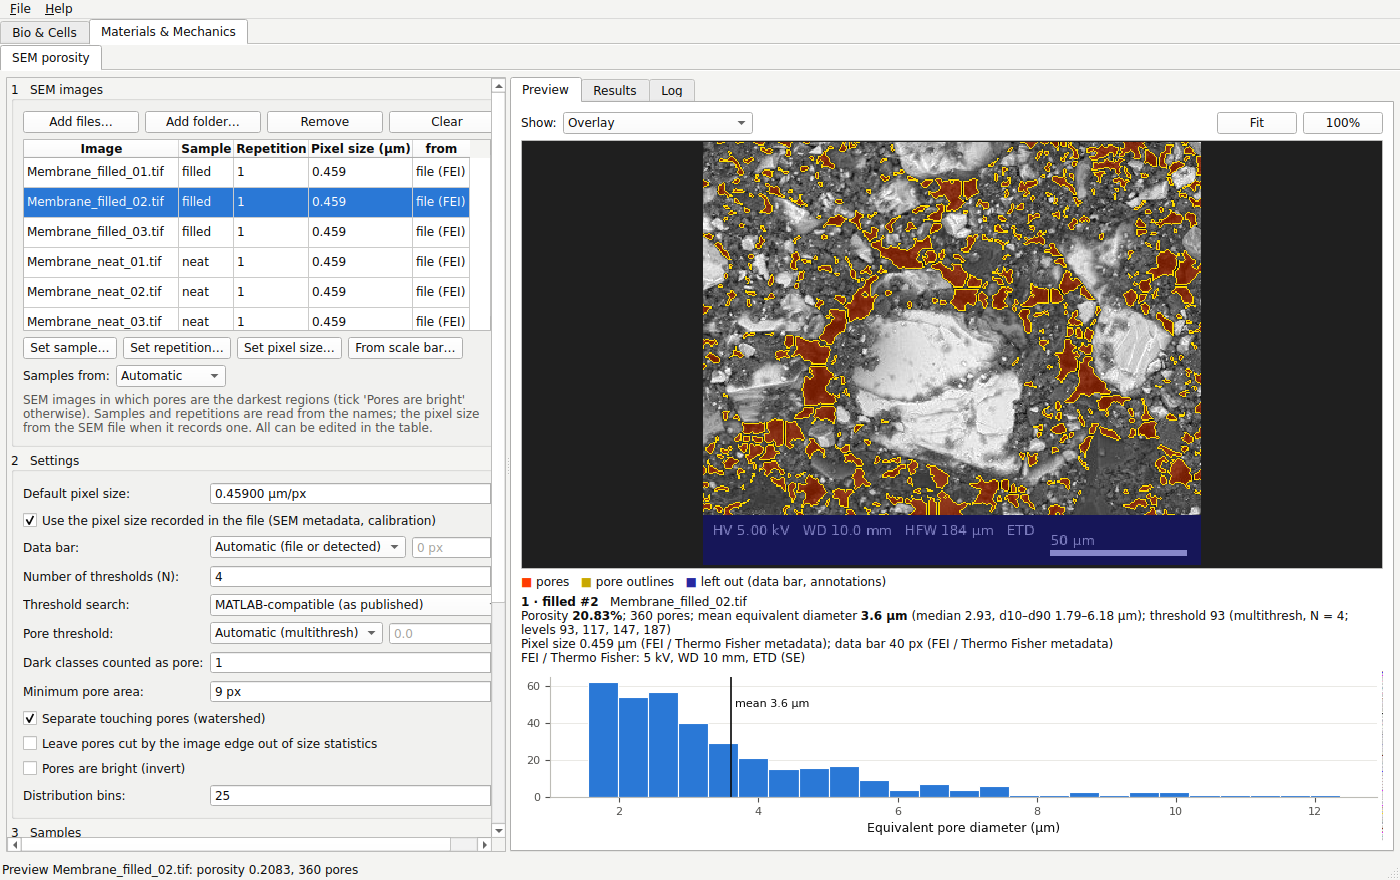
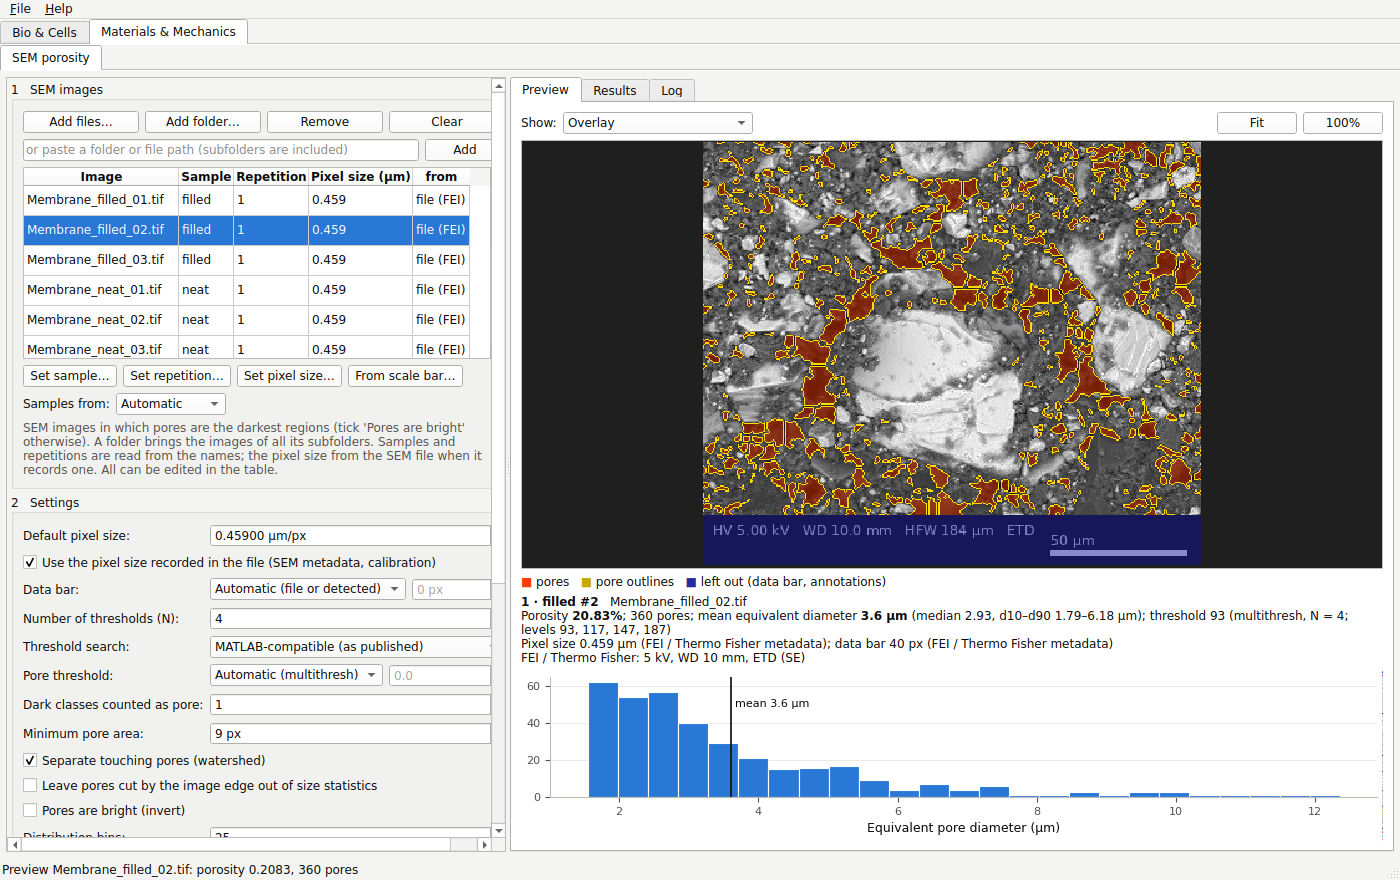
MicrosCount 0.3.1: folders at any depth
- A folder brings every image in it and in all its subfolders, at any
  depth, in both modules; the window also takes a typed or pasted folder or
  file path (quotes, ~ and several paths handled).
- Deeper folder layouts are read sensibly: folders named like repetitions
  (rep1, batch 2, day-3, R4, a date) under a sample or condition folder are
  repetitions of that sample (CA/batch-1 -> sample CA, repetition 1), and a
  sample name found in several places for one repetition takes as much of
  its path as tells them apart (PES/neat, PSf/neat).
- Tests for nested trees, README and screenshots.

Claude-Session: https://claude.ai/code/session_01KgZo1oSvHMA3the4s6Uzx8

Changed region(s): [[0.0, 0.1534, 0.3379, 0.9511]]

diff --git a/src/microscount/core/naming.py b/src/microscount/core/naming.py
@@ -189,15 +189,60 @@ def assign_groups(items: list, path_of: Callable, name_of: Callable | None = Non
                 it.field_no = n
                 it.repetition = reps.get(f, "1")
     else:
-        parent = {f: str(Path(f).parent) for f in folders}
-        reps = path_labels(list(parent.values())) if len(set(parent.values())) > 1 else {}
+        group, rep = _folder_groups(list(folders))
         for f, its in folders.items():
             for it, n in zip(its, parsed[f][1]):
-                setattr(it, attr, Path(f).name)
+                setattr(it, attr, group[f])
                 it.field_no = n
-                it.repetition = reps.get(parent[f], "1")
+                it.repetition = rep[f]
     unify_groups(items, attr)
     return used
+
+
+_REPETITION_NAME = re.compile(
+    r"^(?:(?:rep|repeat|repetition|replicate|batch|run|day|exp|experiment|series|trial|set|r)[\s_\-#.]*\d+"
+    r"|\d{1,4}[.\-_]\d{1,2}[.\-_]\d{1,4})$", re.I)
+
+
+def looks_like_repetition(name: str) -> bool:
+    """``rep1``, ``Batch 2``, ``day-3``, ``R4``, a date: a folder named after a repetition, not a group."""
+    return bool(_REPETITION_NAME.match(name.strip()))
+
+
+def _folder_groups(folders: list[str]) -> tuple[dict[str, str], dict[str, str]]:
+    """Group and repetition of each image folder when folders name the groups.
+
+    Usually a folder is a group and its parent folder the repetition (``rep1/vehicle``). When
+    every image folder is named like a repetition and the parents are not (``CA/batch-1``,
+    ``CA/batch-2``), the parent is the group and the folder the repetition. A group name found
+    in more than one place for the same repetition (``PES/neat/batch-1``, ``PSf/neat/batch-1``)
+    takes as much of its path as tells the places apart (``PES/neat``, ``PSf/neat``).
+    """
+    names = {f: Path(f).name for f in folders}
+    parent = {f: str(Path(f).parent) for f in folders}
+    swap = all(looks_like_repetition(n) for n in names.values()) and not all(
+        looks_like_repetition(Path(p).name) for p in parent.values())
+    if not swap:
+        reps = path_labels(list(parent.values())) if len(set(parent.values())) > 1 else {}
+        return dict(names), {f: reps.get(parent[f], "1") for f in folders}
+    short = short_labels(list(names.values())) if len(set(names.values())) > 1 else {}
+    rep = {f: short.get(names[f], names[f]) if short else "1" for f in folders}
+    group = {f: Path(parent[f]).name for f in folders}
+    places: dict[str, dict[str, set[str]]] = {}  # group -> repetition -> the folders it is in
+    for f in folders:
+        places.setdefault(group_key(group[f]), {}).setdefault(rep[f], set()).add(parent[f])
+    for by_rep in places.values():
+        if all(len(dirs) < 2 for dirs in by_rep.values()):
+            continue  # one place per repetition: one group, even if its batches sit in different folders
+        dirs = set().union(*by_rep.values())
+        parts = {d: Path(d).parts for d in dirs}
+        k = 2
+        while len({"/".join(p[-k:]) for p in parts.values()}) < len(dirs) and any(len(p) > k for p in parts.values()):
+            k += 1
+        for f in folders:
+            if parent[f] in dirs:
+                group[f] = "/".join(parts[parent[f]][-k:])
+    return group, rep
 
 
 def unify_groups(items: list, attr: str = "condition") -> None:

diff --git a/src/microscount/gui/materials_porosity.py b/src/microscount/gui/materials_porosity.py
@@ -21,8 +21,8 @@ from ..core.render import EXCLUDED_TINT, _blend, jet_map, label_colours, porosit
 from ..materials.experiment import ImageSpec, assign_samples, design_from_settings, label_images, scan_sem_files
 from ..materials.porosity import PorositySettings, analyse_sem
 from .common import (
-    IMAGE_FILTER, DropTable, FitImageLabel, ImageViewer, LogView, MplCanvas, ScaleBarDialog, Task, expand_paths,
-    fill_table, message, open_folder, start_task,
+    IMAGE_FILTER, DropTable, FitImageLabel, ImageViewer, LogView, MplCanvas, PathBox, ScaleBarDialog, Task,
+    expand_paths, fill_table, message, open_folder, start_task,
 )
 
 VIEWS = [("Overlay", "overlay"), ("Original", "grey"), ("Depth map (MATLAB style)", "depth"),
@@ -114,8 +114,13 @@ class PorosityPage(QWidget):
                            ("Remove", self.remove_selected), ("Clear", self.clear_all)):
             b = QPushButton(text)
             b.clicked.connect(slot)
+            if text == "Add folder…":
+                b.setToolTip("Every image in the folder and in all its subfolders, at any depth")
             row.addWidget(b)
         v1.addLayout(row)
+        self.path_box = PathBox()
+        self.path_box.paths.connect(self.add_paths)
+        v1.addWidget(self.path_box)
         self.table = DropTable(0, 5)
         self.table.setHorizontalHeaderLabels(["Image", "Sample", "Repetition", "Pixel size (µm)", "from"])
         self.table.horizontalHeader().setSectionResizeMode(QHeaderView.Interactive)
@@ -153,9 +158,9 @@ class PorosityPage(QWidget):
         row.addWidget(self.samples_from)
         row.addStretch(1)
         v1.addLayout(row)
-        hint = QLabel("SEM images in which pores are the darkest regions (tick 'Pores are bright' otherwise). Samples "
-                      "and repetitions are read from the names; the pixel size from the SEM file when it records one. "
-                      "All can be edited in the table.")
+        hint = QLabel("SEM images in which pores are the darkest regions (tick 'Pores are bright' otherwise). A folder "
+                      "brings the images of all its subfolders. Samples and repetitions are read from the names; the "
+                      "pixel size from the SEM file when it records one. All can be edited in the table.")
         hint.setWordWrap(True)
         hint.setStyleSheet(GREY)
         v1.addWidget(hint)

diff --git a/src/microscount/gui/bio_translocation.py b/src/microscount/gui/bio_translocation.py
@@ -23,8 +23,8 @@ from ..core.render import translocation_overlay
 from ..core.thresholds import METHOD_LABELS
 from ..bio.translocation import FieldSpec, TranslocationSettings, analyse_field
 from .common import (
-    IMAGE_FILTER, DropTable, FitImageLabel, ImageViewer, LogView, MplCanvas, ScaleBarDialog, Task, expand_paths, fill_table,
-    message, open_folder, start_task,
+    IMAGE_FILTER, DropTable, FitImageLabel, ImageViewer, LogView, MplCanvas, PathBox, ScaleBarDialog, Task, expand_paths,
+    fill_table, message, open_folder, start_task,
 )
 
 CHANNELS = [("Automatic", "auto"), ("Blue", "blue"), ("Green", "green"), ("Red", "red"),
@@ -132,8 +132,13 @@ class TranslocationPage(QWidget):
                            ("Remove", self.remove_selected), ("Clear", self.clear_all)):
             b = QPushButton(text)
             b.clicked.connect(slot)
+            if text == "Add folder…":
+                b.setToolTip("Every image in the folder and in all its subfolders, at any depth")
             row.addWidget(b)
         v1.addLayout(row)
+        self.path_box = PathBox()
+        self.path_box.paths.connect(self.add_paths)
+        v1.addWidget(self.path_box)
         self.table = DropTable(0, 6)
         self.table.setHorizontalHeaderLabels(["Field", "Condition", "Repetition", "Nuclear stain image", "Target image",
                                               "Pairing"])
@@ -173,7 +178,8 @@ class TranslocationPage(QWidget):
         row.addWidget(self.cond_from)
         row.addStretch(1)
         v1.addLayout(row)
-        hint = QLabel("Drop TIFF, PNG or JPEG files or folders here. Blue exports are used as the nuclear stain and "
+        hint = QLabel("Drop TIFF, PNG or JPEG files or folders here (a folder brings the images of all its "
+                      "subfolders). Blue exports are used as the nuclear stain and "
                       "green/red as the target; matching files are paired by name or, failing that, by image content. "
                       "Conditions and repetitions are read from the names and can be edited in the table. "
                       "Right-click a row to change a pairing.")

diff --git a/src/microscount/gui/common.py b/src/microscount/gui/common.py
@@ -237,6 +237,52 @@ class DropTable(QTableWidget):
             super().dropEvent(e)
 
 
+def split_paths(text: str) -> list[str]:
+    """Paths typed or pasted into a box: one per line or separated by ``;``, quotes and ``~`` handled."""
+    out = []
+    for part in text.replace(";", "\n").splitlines():
+        p = part.strip().strip('"').strip("'").strip()
+        if p.lower().startswith("file://"):
+            p = QUrl(p).toLocalFile() or p
+        if p:
+            out.append(os.path.expanduser(p))
+    return out
+
+
+class PathBox(QWidget):
+    """A box for a typed or pasted folder or file path: a folder brings every image in it and in all
+    its subfolders, at any depth."""
+
+    paths = Signal(list)
+
+    def __init__(self, parent=None):
+        super().__init__(parent)
+        from PySide6.QtWidgets import QLineEdit
+
+        row = QHBoxLayout(self)
+        row.setContentsMargins(0, 0, 0, 0)
+        self.edit = QLineEdit()
+        self.edit.setPlaceholderText("or paste a folder or file path (subfolders are included)")
+        self.edit.setToolTip("A folder brings every TIFF, PNG and JPEG image in it and in all its subfolders. Several "
+                             "paths can be given on separate lines or separated by ';'.")
+        self.edit.returnPressed.connect(self.submit)
+        row.addWidget(self.edit, 1)
+        b = QPushButton("Add")
+        b.clicked.connect(self.submit)
+        row.addWidget(b)
+
+    def submit(self):
+        got = split_paths(self.edit.text())
+        if not got:
+            return
+        missing = [p for p in got if not Path(p).exists()]
+        if missing:
+            message(self, "Path not found", "Not found:\n" + "\n".join(missing))
+            return
+        self.edit.clear()
+        self.paths.emit(got)
+
+
 class ScaleBarDialog(QDialog):
     """Pixel size from a burned-in scale bar of known length."""
 

diff --git a/tests/test_cli_gui.py b/tests/test_cli_gui.py
@@ -218,7 +218,8 @@ def test_gui_materials_experiment(tmp_path, monkeypatch):
         for _ in range(10):
             app.processEvents()
 
-    p.add_paths([str(root)])
+    p.path_box.edit.setText(f'"{root}"')  # a pasted path, quotes and all: the folder and its subfolders
+    p.path_box.submit()
     wait()
     assert len(p.specs) == 9 and {s.repetition for s in p.specs} == {"1", "2"}
     assert {s.sample for s in p.specs} == {"CA", "CA-CNF1"}
@@ -242,7 +243,8 @@ def test_gui_materials_experiment(tmp_path, monkeypatch):
     sample = p.specs[png].sample
     p.table.item(png, 1).setText("X")
     p.samples_from.setCurrentIndex(p.samples_from.findData("folder"))
-    assert p.specs[png].sample == "X" and {s.sample for s in p.specs} - {"X"} == {"batch-1", "batch-2"}
+    assert p.specs[png].sample == "X" and {s.sample for s in p.specs} - {"X"} == {"data"}  # batch-n: repetitions
+    assert {s.repetition for s in p.specs} == {"1", "2"}
     p.samples_from.setCurrentIndex(p.samples_from.findData("auto"))
     p.table.item(png, 1).setText(sample)
     assert {s.sample for s in p.specs} == {"CA", "CA-CNF1"}
@@ -251,7 +253,7 @@ def test_gui_materials_experiment(tmp_path, monkeypatch):
     from microscount.materials.porosity import PorositySettings
 
     p.apply_settings(PorositySettings(samples_from="folder"))  # settings opened without their images
-    assert {q.sample for i, q in enumerate(p.specs) if i != png} == {"batch-1", "batch-2"}
+    assert {q.sample for i, q in enumerate(p.specs) if i != png} == {"data"}
     p.apply_settings(s)
     assert {q.sample for q in p.specs} == {"CA", "CA-CNF1"} and p.get_settings().reference_sample == "CA"
     out = tmp_path / "outs" / "run"

diff --git a/tests/test_materials.py b/tests/test_materials.py
@@ -406,6 +406,28 @@ def test_run_combine_and_command_line(tmp_path):
     assert {r["repetition"] for r in _csv(tmp_path / "r7" / "per_image.csv")} == {"7"}
 
 
+def test_folders_at_any_depth(tmp_path):
+    seed = 0
+    for polymer in ("PES", "PSf"):
+        for sample, por in (("neat", 0.10), ("filled", 0.18)):
+            for rep in (1, 2):
+                d = tmp_path / "SEM" / "2026" / polymer / sample / f"batch {rep}"
+                d.mkdir(parents=True)
+                for k in (1, 2):
+                    seed += 1
+                    Image.fromarray(sem_image(shape=(120, 160), porosity=por, seed=seed)[0]).save(d / f"img_{k}.png")
+    out = tmp_path / "out"
+    assert main(["materials", "porosity", str(tmp_path / "SEM"), "--pixel-size", "0.05", "--n-thresholds", "2",
+                 "--out", str(out)]) == 0
+    rows = _csv(out / "per_image.csv")
+    assert len(rows) == 16
+    assert {(r["sample"], r["repetition"]) for r in rows} == {
+        (f"{p}/{s}", b) for p in ("PES", "PSf") for s in ("neat", "filled") for b in "12"}
+    assert {r["n_repetitions"] for r in _csv(out / "summary.csv")} == {"2"}
+    # only the folder itself
+    assert main(["materials", "porosity", str(tmp_path / "SEM"), "--no-subfolders", "--out", str(tmp_path / "o2")]) == 2
+
+
 def test_combining_result_folders_keeps_repetitions_apart():
     def rows(reps, samples, n=2):
         return [{"repetition": rep, "sample": g, "image_id": (f"{rep} · " if len(reps) > 1 else "") + f"{g} #{k}"}

diff --git a/tests/test_experiment.py b/tests/test_experiment.py
@@ -94,6 +94,25 @@ def test_conditions_from_folders(tmp_path):
     assert {p.condition for p in pairs} == {"img"}
 
 
+def test_folders_at_any_depth(tmp_path):
+    from microscount.core.imageio import list_images
+
+    # condition folders holding their repetitions, several levels below the folder given
+    for cond, r in (("control", 1.0), ("treated", 2.0)):
+        for rep in ("rep1", "rep2"):
+            d = tmp_path / "2026" / "project" / "plate A" / cond / rep
+            d.mkdir(parents=True)
+            n, t, _ = translocation_field(shape=(96, 96), ratio=r, seed=3)
+            Image.fromarray(n).save(d / "field-1_dapi.png")
+            Image.fromarray(t).save(d / "field-1_gfp.png")
+    (tmp_path / "2026" / "microscount_results_1").mkdir()
+    Image.fromarray(n).save(tmp_path / "2026" / "microscount_results_1" / "overlay.png")  # results are not inputs
+    files = list_images(tmp_path)
+    assert len(files) == 8
+    pairs, _ = pair_files(scan_files(files))
+    assert {(p.condition, p.repetition) for p in pairs} == {(c, r) for c in ("control", "treated") for r in "12"}
+
+
 # ---------------------------------------------------------------------- the summary
 
 

diff --git a/src/microscount/_version.py b/src/microscount/_version.py
@@ -1,1 +1,1 @@
-__version__ = "0.3.0"
+__version__ = "0.3.1"

diff --git a/README.md b/README.md
@@ -45,7 +45,7 @@ Python users can instead run `pip install git+https://github.com/mertol93/micros
 
 ### Quick start
 
-1. **Add images.** Use *Add files…* or *Add folder…*, or drag files or folders onto the table. MicrosCount pairs each nuclear-stain image with its target image:
+1. **Add images.** Use *Add files…* or *Add folder…*, paste a path into the box below them, or drag files or folders onto the table. A folder brings every image in it and in all its subfolders, at any depth. MicrosCount pairs each nuclear-stain image with its target image:
    - blue single-colour exports are the nuclear stain, green or red ones the target;
    - files are paired by name (`img_ch00`/`img_ch01`, `C1-x`/`C2-x`, `…DAPI`/`…AF488`); if names don't match, by image content (the same nuclei appear in both channels);
    - multi-channel TIFFs and merged RGB images are used as they are;
@@ -63,7 +63,7 @@ Repetitions analysed at different times can be put together afterwards with **Co
 
 ### Conditions and repetitions
 
-- **Automatic (default).** If the file names in a folder name several conditions, as in a microscope export (`Experiment_vehicle-1_ch00.tif`, `Experiment_stimulus 30 min-2_ch00.tif` …), the condition is the file name without the shared experiment name before the first `_` and without the trailing field number, and **each folder is one repetition**. Otherwise **each folder is a condition** and its parent folder the repetition.
+- **Automatic (default).** If the file names in a folder name several conditions, as in a microscope export (`Experiment_vehicle-1_ch00.tif`, `Experiment_stimulus 30 min-2_ch00.tif` …), the condition is the file name without the shared experiment name before the first `_` and without the trailing field number, and **each folder is one repetition**. Otherwise **each folder is a condition** and its parent folder the repetition, unless the folders are named like repetitions (`rep1`, `batch 2`, `day-3`, `R4` or a date): then the folder above them is the condition (`vehicle/rep1` → condition `vehicle`, repetition `1`).
 - **File names** or **Folder names** force one of the two.
 - A field number is a number at the end of the name after `-`, `_` or `#`, in brackets, or after *field*/*pos*; a number after a plain space (`dose 10`) stays part of the condition.
 - Spellings that differ only in case, spaces or separators (`stimulus 30 min`, `Stimulus-30min`) are treated as one condition, so repetitions line up; signs count (`drug +` and `drug -` are two conditions).
@@ -108,7 +108,7 @@ Every field is checked as it is measured, and warnings appear in the preview, th
 
 ### Quick start
 
-1. **Add SEM images.** Use *Add files…* or *Add folder…*, or drag files or folders onto the table. Pores should be the darkest regions; tick *Pores are bright* otherwise.
+1. **Add SEM images.** Use *Add files…* or *Add folder…*, paste a path into the box below them, or drag files or folders onto the table. A folder brings every image in it and in all its subfolders, at any depth. Pores should be the darkest regions; tick *Pores are bright* otherwise.
 2. **Check the samples and repetitions.** They are read from the names (see [Samples and repetitions](#samples-and-repetitions)) and can be edited in the table or with *Set sample…* / *Set repetition…*.
 3. **Check the pixel size of every image.** FEI / Thermo Fisher and Zeiss SEM TIFFs record it, as do calibrated TIFFs (ImageJ, OME); the table shows where each value comes from. For other images, set a *Default pixel size* (the MATLAB script's *Resolution*), type it into the table, or measure the scale bar with *From scale bar…*. A bare TIFF resolution tag, which many programs write, counts only when there is no default, and print resolutions (72–2400 dpi) are ignored. Without a pixel size, sizes are given in pixels.
 4. **Data bar.** The information bar at the bottom of an SEM image is left out automatically: its height is read from the file (FEI / Thermo Fisher) or found as a block of flat graphic rows. Choose *None* or a number of rows to override this.
@@ -122,7 +122,7 @@ Repetitions analysed at different times can be put together afterwards with **Co
 
 ### Samples and repetitions
 
-- **Automatic (default).** If the file names in a folder name several samples (`Membrane_neat_01.tif`, `Membrane_filled_01.tif` …), the sample is the file name without the parts all names share and without the trailing image number, and **each folder is one repetition** (an independently made membrane or batch). Otherwise **each folder is a sample** and its parent folder the repetition.
+- **Automatic (default).** If the file names in a folder name several samples (`Membrane_neat_01.tif`, `Membrane_filled_01.tif` …), the sample is the file name without the parts all names share and without the trailing image number, and **each folder is one repetition** (an independently made membrane or batch). Otherwise **each folder is a sample** and its parent folder the repetition, unless the folders are named like repetitions (`rep1`, `batch 2`, `day-3`, `R4` or a date): then the folder above them is the sample (`CA/batch-1` → sample `CA`, repetition `1`). A sample name found in several places for one repetition takes as much of its path as tells them apart (`PES/neat/batch-1`, `PSf/neat/batch-1` → `PES/neat`, `PSf/neat`).
 - **File names** or **Folder names** force one of the two. The naming rules are those of Bio & Cells (see [Conditions and repetitions](#conditions-and-repetitions)).
 
 ### How an experiment is summarised
@@ -261,6 +261,8 @@ microscount materials combine results_batch1/ results_batch2/ --reference "neat"
 microscount modules      # list the modules and analyses
 microscount selftest
 ```
+
+A folder given on the command line is searched with all its subfolders, at any depth; `--no-subfolders` limits it to the folder itself.
 
 Bio & Cells options: `--conditions-from auto|name|folder`, `--repetition`, `--control`, `--compare A B` (repeatable), `--reference CONDITION REFERENCE` (repeatable), `--order`, `--responder-percentile`, `--keep-failed-paper-fields`, `--no-subfolders`.
 
